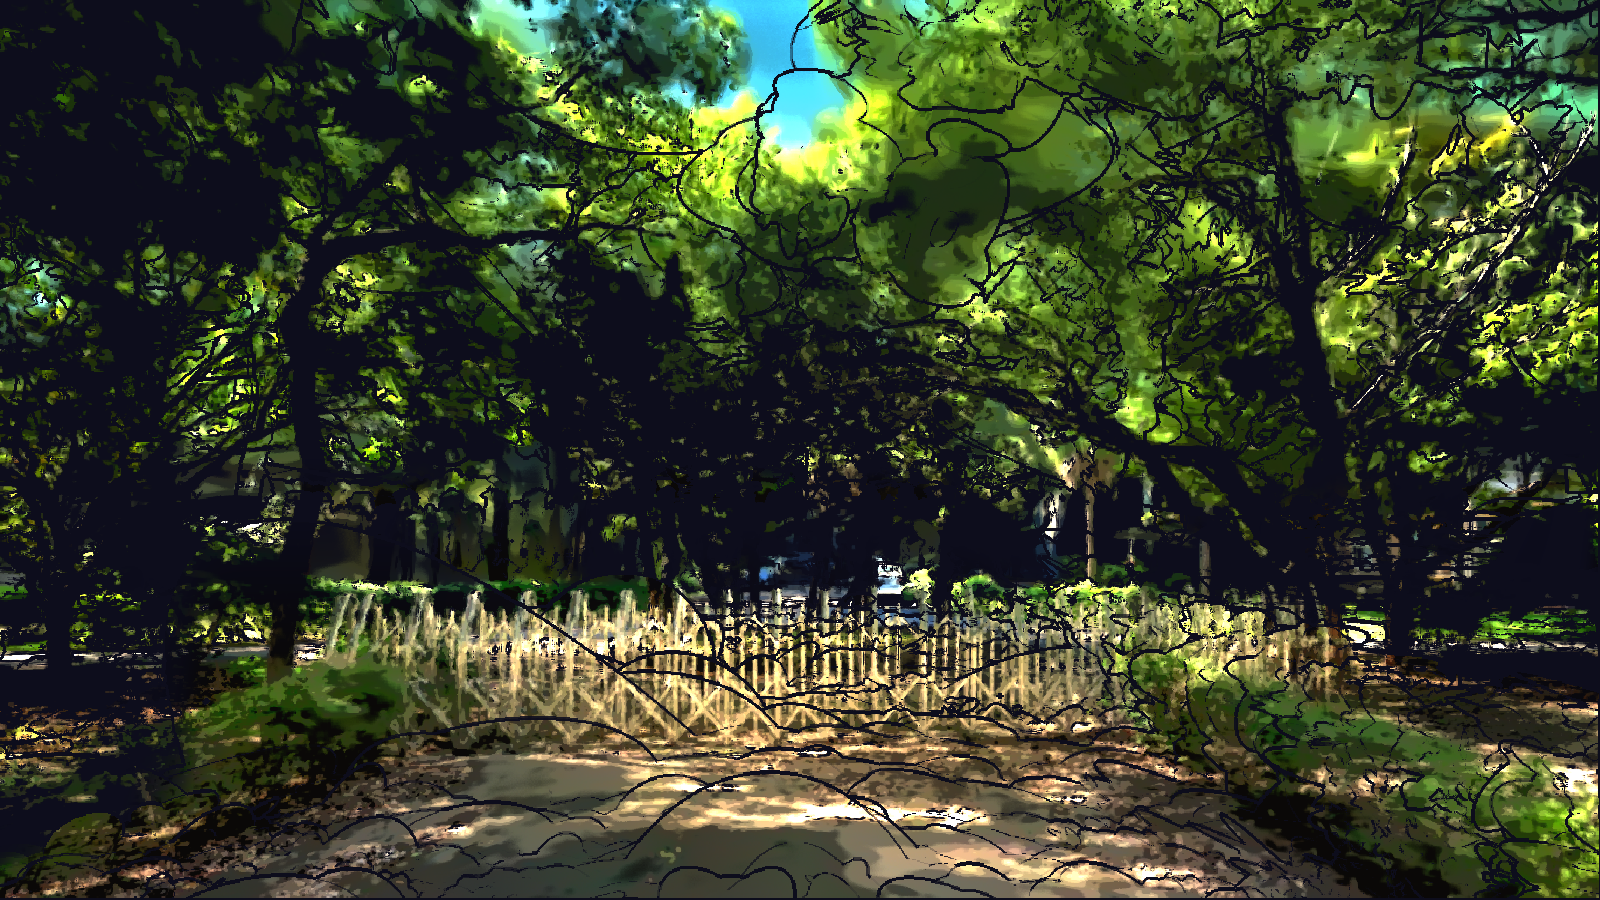
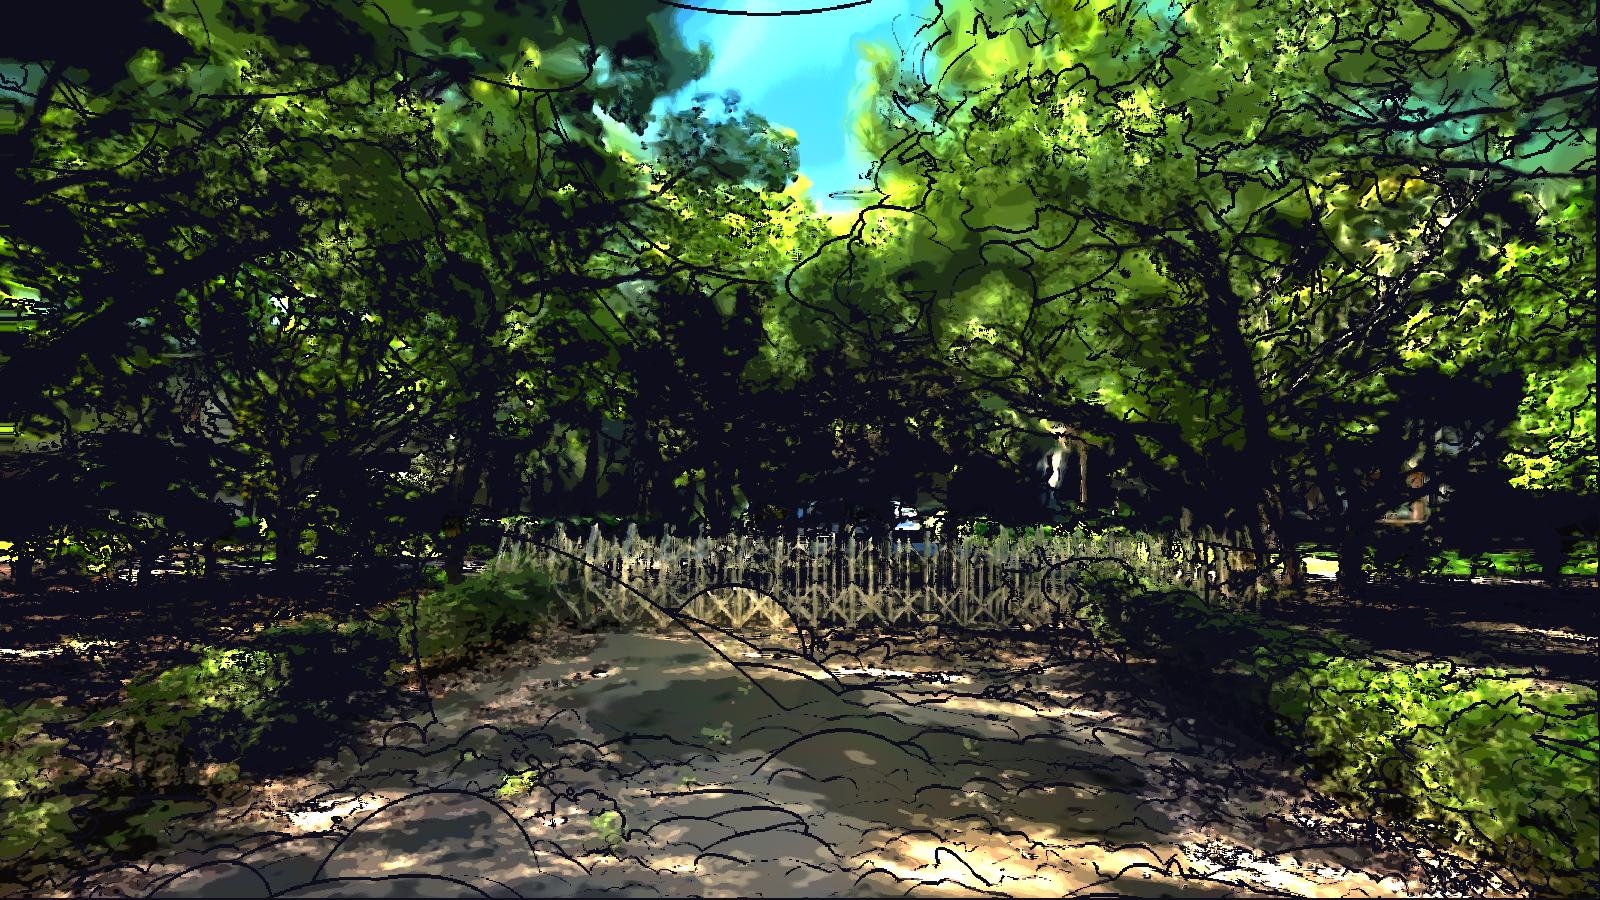
Update final version: sky, time of day, sun handle

diff --git a/20261006_NYCU ZhuMing Hall/scripts/outline_3dgs_pp.py b/20261006_NYCU ZhuMing Hall/scripts/outline_3dgs_pp.py
@@ -87,6 +87,12 @@ ROAD_TINT = (1.0, 0.94, 0.80)
 SUN = True
 SUN_LABEL = "SunHandle"
 SUN_NOON_PITCH = -78.0   # set once, on the first run: the light points almost straight down
+SUN_BASE_INTENSITY = 3.0 # the light's Intensity that counts as normal; fixed, so the brightness slider stays meaningful
+SUN_RESET_INTENSITY = True   # put Intensity back to SUN_BASE_INTENSITY when this runs; False keeps the slider's value
+SKY_KEEP = 0.7           # how much the sky keeps its own colour instead of the grade, so it doesn't blow out
+DAY_RANGE = 0.6          # sun height (sine of elevation) where full daylight is reached; below it the scene dims
+DAY_DIM = 0.3            # scene brightness at sunrise and sunset
+SUNSET_WARMTH = 0.8      # how orange the scene turns when the sun is low
 SUN_POOL = 0.6           # how much brighter open ground gets; same soft multiply as the road light, kept below it
 SUN_SOFTNESS = 0.06      # blur of the pool edges, per cm of canopy height (bigger = softer)
 CANOPY_ABSORB = 2.5      # how much sun the canopy blocks (bigger = smaller, sharper pools)
@@ -239,6 +245,9 @@ if ({road})
 float boost = max(road * {rb_}, sunPool * {pl}) * sunGain;
 float3 lightTint = {rt} * sunTint;
 c.rgb = c.rgb * (1.0 + boost) * lerp(float3(1.0, 1.0, 1.0), lightTint, saturate(boost)) + lightTint * 0.06 * boost;
+// the sky skips most of the grade, or contrast and highlight boosts wash it to white
+float skyM = smoothstep(2500.0, 6000.0, d) * smoothstep(-0.03, 0.03, skyOrig.b - skyOrig.g);
+c.rgb = lerp(c.rgb, skyOrig, skyM * {sk});
 LineColor = {lc};
 c.rgb = lerp(c.rgb, LineColor, smoothstep({dhi}, {dlo}, lum) * (1.0 - saturate(max(road, sunPool * sunGain))));
 edge *= {ls};
@@ -342,15 +351,18 @@ SWAY_CODE = """if ({on})
 SUN_CODE = """float sunPool = 0.0;
 float sunGain = 1.0;
 float3 sunTint = float3(1.0, 1.0, 1.0);
+float3 skyOrig = c.rgb;
 if ({on})
 {{
     float3 sunD = View.AtmosphereLightDirection[0].xyz;
     float3 sunI = View.AtmosphereLightIlluminanceOnGroundPostTransmittance[0].rgb;
     float sunL = dot(sunI, W);
-    float day = smoothstep(-0.05, 0.25, sunD.z);
+    float day = smoothstep(-0.05, {dr}, sunD.z);
     sunGain = clamp(sunL / {ref}, 0.0, 1.5) * day;
     sunTint = lerp(float3(1.0, 1.0, 1.0), sunI / max(sunL, 0.001), 0.5);
-    c.rgb *= lerp(0.35, 1.0, day);
+    // the whole picture follows the sun: dim and orange when low, full and neutral when high
+    c.rgb *= lerp({dd}, 1.0, day) * lerp(float3(1.0, 1.0, 1.0), float3(1.15, 0.9, 0.62), {wm} * (1.0 - saturate(sunD.z / {dr})));
+    skyOrig = c.rgb;
     float gw = 1.0 - smoothstep(60.0, 220.0, aboveG);
     if (gw > 0.001 && sunD.z > 0.05)
     {{
@@ -391,7 +403,7 @@ RAYS_CODE = """if ({on})
         }}
         acc /= {n};
         float fade = 1.0 - smoothstep(0.6, 1.4, length(sunUV / ScreenMult - 0.5));
-        c.rgb += {rc} * acc * {it} * fade;
+        c.rgb += {rc} * acc * {it} * fade * {rk};
     }}
 }}
 """
@@ -399,7 +411,8 @@ RAYS_CODE = """if ({on})
 
 def build_code():
     rays = RAYS_CODE.format(on=int(RAYS), ln=RAY_LENGTH, n=int(RAY_SAMPLES), sky=RAY_SKY_DEPTH,
-                            dc=RAY_DECAY, rc=f3(RAY_COLOR), it=RAY_INTENSITY)
+                            dc=RAY_DECAY, rc=f3(RAY_COLOR), it=RAY_INTENSITY,
+                            rk="(1.0 - skyM * {})".format(SKY_KEEP) if MONET else "1.0")
     sway = SWAY_CODE.format(on=int(SWAY), rad=LEAF_MASK_RADIUS, amt=SWAY_AMOUNT, n=len(TREE_LIST), crown=CROWN_RADIUS,
                             wx=WIND_DIR[0], wy=WIND_DIR[1], gv=GUST_SPEED, gp=GUST_PERIOD, gs2=GUST_SHARPNESS,
                             tg=TREE_GUST_SPREAD, ts=TREE_SPEED, ox=SPLAT_OFFSET[0], oy=SPLAT_OFFSET[1], mn=SUN_MAP_MIN,
@@ -409,7 +422,7 @@ def build_code():
     ground = GROUND_CODE.format(ox=SPLAT_OFFSET[0], oy=SPLAT_OFFSET[1], oz=SPLAT_OFFSET[2],
                                 gf=", ".join(str(v) for v in GROUND_FIT))
     base = OUTLINE.replace("float2 px =", ground + sway + "float2 px =")
-    sunc = SUN_CODE.format(on=int(SUN), ref=SUN_REF, ox=SPLAT_OFFSET[0], oy=SPLAT_OFFSET[1], b0=SUN_BANDS[0],
+    sunc = SUN_CODE.format(on=int(SUN), ref=SUN_BASE_INTENSITY * 0.8, dr=DAY_RANGE, dd=DAY_DIM, wm=SUNSET_WARMTH, ox=SPLAT_OFFSET[0], oy=SPLAT_OFFSET[1], b0=SUN_BANDS[0],
                            b1=SUN_BANDS[1], b2=SUN_BANDS[2], mn=SUN_MAP_MIN, sp=SUN_MAP_SPAN, ab=CANOPY_ABSORB,
                            sf=SUN_SOFTNESS)
     if not MONET:
@@ -422,7 +435,7 @@ def build_code():
                                lt=f3(LIGHT_TINT), pastel=PASTEL, lc=f3(MONET_LINE_COLOR),
                                dlo=DARK_LO, dhi=DARK_HI, ls=LINE_STRENGTH, hb=HIGHLIGHT_BOOST, br=BRIGHTNESS,
                                road=int(ROAD), ra=f3(ROAD_A), rb=f3(ROAD_B), rw=ROAD_HALF_WIDTH, rs=ROAD_SOFT,
-                               rh=ROAD_HEIGHT, rb_=ROAD_BOOST, rt=f3(ROAD_TINT), pl=SUN_POOL)
+                               rh=ROAD_HEIGHT, rb_=ROAD_BOOST, rt=f3(ROAD_TINT), pl=SUN_POOL, sk=SKY_KEEP)
     # Edges are found on the photo; the paint dabs and grade then go on before the lines are drawn.
     return code.replace("c.rgb = lerp(c.rgb, LineColor, edge);", paint + sunc + grade + "c.rgb = lerp(c.rgb, LineColor, edge);").replace(
         "return c;", rays + "return c;")
@@ -489,7 +502,12 @@ if sun.get_actor_label() != SUN_LABEL:
     sun.set_actor_label(SUN_LABEL)
     unreal.EditorLoadingAndSavingUtils.save_dirty_packages(True, True)
     log("sun handle set to noon")
-SUN_REF = max(sun_comp.get_editor_property("intensity") * 0.8, 0.001)
+# back to normal strength: real sky brightness follows the light's Intensity
+if SUN_RESET_INTENSITY:
+    sun.modify()
+    sun_comp.modify()
+    sun_comp.set_intensity(SUN_BASE_INTENSITY)
+    unreal.EditorLoadingAndSavingUtils.save_dirty_packages(True, True)
 log("sun intensity {} rotation {}".format(sun_comp.get_editor_property("intensity"), sun.get_actor_rotation()))
 
 def data_texture(name, source):

diff --git a/20261006_NYCU ZhuMing Hall/stages/07_sun_handle/apply.py b/20261006_NYCU ZhuMing Hall/stages/07_sun_handle/apply.py
@@ -87,6 +87,12 @@ ROAD_TINT = (1.0, 0.94, 0.80)
 SUN = True
 SUN_LABEL = "SunHandle"
 SUN_NOON_PITCH = -78.0   # set once, on the first run: the light points almost straight down
+SUN_BASE_INTENSITY = 3.0 # the light's Intensity that counts as normal; fixed, so the brightness slider stays meaningful
+SUN_RESET_INTENSITY = True   # put Intensity back to SUN_BASE_INTENSITY when this runs; False keeps the slider's value
+SKY_KEEP = 0.7           # how much the sky keeps its own colour instead of the grade, so it doesn't blow out
+DAY_RANGE = 0.6          # sun height (sine of elevation) where full daylight is reached; below it the scene dims
+DAY_DIM = 0.3            # scene brightness at sunrise and sunset
+SUNSET_WARMTH = 0.8      # how orange the scene turns when the sun is low
 SUN_POOL = 0.6           # how much brighter open ground gets; same soft multiply as the road light, kept below it
 SUN_SOFTNESS = 0.06      # blur of the pool edges, per cm of canopy height (bigger = softer)
 CANOPY_ABSORB = 2.5      # how much sun the canopy blocks (bigger = smaller, sharper pools)
@@ -239,6 +245,9 @@ if ({road})
 float boost = max(road * {rb_}, sunPool * {pl}) * sunGain;
 float3 lightTint = {rt} * sunTint;
 c.rgb = c.rgb * (1.0 + boost) * lerp(float3(1.0, 1.0, 1.0), lightTint, saturate(boost)) + lightTint * 0.06 * boost;
+// the sky skips most of the grade, or contrast and highlight boosts wash it to white
+float skyM = smoothstep(2500.0, 6000.0, d) * smoothstep(-0.03, 0.03, skyOrig.b - skyOrig.g);
+c.rgb = lerp(c.rgb, skyOrig, skyM * {sk});
 LineColor = {lc};
 c.rgb = lerp(c.rgb, LineColor, smoothstep({dhi}, {dlo}, lum) * (1.0 - saturate(max(road, sunPool * sunGain))));
 edge *= {ls};
@@ -342,15 +351,18 @@ SWAY_CODE = """if ({on})
 SUN_CODE = """float sunPool = 0.0;
 float sunGain = 1.0;
 float3 sunTint = float3(1.0, 1.0, 1.0);
+float3 skyOrig = c.rgb;
 if ({on})
 {{
     float3 sunD = View.AtmosphereLightDirection[0].xyz;
     float3 sunI = View.AtmosphereLightIlluminanceOnGroundPostTransmittance[0].rgb;
     float sunL = dot(sunI, W);
-    float day = smoothstep(-0.05, 0.25, sunD.z);
+    float day = smoothstep(-0.05, {dr}, sunD.z);
     sunGain = clamp(sunL / {ref}, 0.0, 1.5) * day;
     sunTint = lerp(float3(1.0, 1.0, 1.0), sunI / max(sunL, 0.001), 0.5);
-    c.rgb *= lerp(0.35, 1.0, day);
+    // the whole picture follows the sun: dim and orange when low, full and neutral when high
+    c.rgb *= lerp({dd}, 1.0, day) * lerp(float3(1.0, 1.0, 1.0), float3(1.15, 0.9, 0.62), {wm} * (1.0 - saturate(sunD.z / {dr})));
+    skyOrig = c.rgb;
     float gw = 1.0 - smoothstep(60.0, 220.0, aboveG);
     if (gw > 0.001 && sunD.z > 0.05)
     {{
@@ -391,7 +403,7 @@ RAYS_CODE = """if ({on})
         }}
         acc /= {n};
         float fade = 1.0 - smoothstep(0.6, 1.4, length(sunUV / ScreenMult - 0.5));
-        c.rgb += {rc} * acc * {it} * fade;
+        c.rgb += {rc} * acc * {it} * fade * {rk};
     }}
 }}
 """
@@ -399,7 +411,8 @@ RAYS_CODE = """if ({on})
 
 def build_code():
     rays = RAYS_CODE.format(on=int(RAYS), ln=RAY_LENGTH, n=int(RAY_SAMPLES), sky=RAY_SKY_DEPTH,
-                            dc=RAY_DECAY, rc=f3(RAY_COLOR), it=RAY_INTENSITY)
+                            dc=RAY_DECAY, rc=f3(RAY_COLOR), it=RAY_INTENSITY,
+                            rk="(1.0 - skyM * {})".format(SKY_KEEP) if MONET else "1.0")
     sway = SWAY_CODE.format(on=int(SWAY), rad=LEAF_MASK_RADIUS, amt=SWAY_AMOUNT, n=len(TREE_LIST), crown=CROWN_RADIUS,
                             wx=WIND_DIR[0], wy=WIND_DIR[1], gv=GUST_SPEED, gp=GUST_PERIOD, gs2=GUST_SHARPNESS,
                             tg=TREE_GUST_SPREAD, ts=TREE_SPEED, ox=SPLAT_OFFSET[0], oy=SPLAT_OFFSET[1], mn=SUN_MAP_MIN,
@@ -409,7 +422,7 @@ def build_code():
     ground = GROUND_CODE.format(ox=SPLAT_OFFSET[0], oy=SPLAT_OFFSET[1], oz=SPLAT_OFFSET[2],
                                 gf=", ".join(str(v) for v in GROUND_FIT))
     base = OUTLINE.replace("float2 px =", ground + sway + "float2 px =")
-    sunc = SUN_CODE.format(on=int(SUN), ref=SUN_REF, ox=SPLAT_OFFSET[0], oy=SPLAT_OFFSET[1], b0=SUN_BANDS[0],
+    sunc = SUN_CODE.format(on=int(SUN), ref=SUN_BASE_INTENSITY * 0.8, dr=DAY_RANGE, dd=DAY_DIM, wm=SUNSET_WARMTH, ox=SPLAT_OFFSET[0], oy=SPLAT_OFFSET[1], b0=SUN_BANDS[0],
                            b1=SUN_BANDS[1], b2=SUN_BANDS[2], mn=SUN_MAP_MIN, sp=SUN_MAP_SPAN, ab=CANOPY_ABSORB,
                            sf=SUN_SOFTNESS)
     if not MONET:
@@ -422,7 +435,7 @@ def build_code():
                                lt=f3(LIGHT_TINT), pastel=PASTEL, lc=f3(MONET_LINE_COLOR),
                                dlo=DARK_LO, dhi=DARK_HI, ls=LINE_STRENGTH, hb=HIGHLIGHT_BOOST, br=BRIGHTNESS,
                                road=int(ROAD), ra=f3(ROAD_A), rb=f3(ROAD_B), rw=ROAD_HALF_WIDTH, rs=ROAD_SOFT,
-                               rh=ROAD_HEIGHT, rb_=ROAD_BOOST, rt=f3(ROAD_TINT), pl=SUN_POOL)
+                               rh=ROAD_HEIGHT, rb_=ROAD_BOOST, rt=f3(ROAD_TINT), pl=SUN_POOL, sk=SKY_KEEP)
     # Edges are found on the photo; the paint dabs and grade then go on before the lines are drawn.
     return code.replace("c.rgb = lerp(c.rgb, LineColor, edge);", paint + sunc + grade + "c.rgb = lerp(c.rgb, LineColor, edge);").replace(
         "return c;", rays + "return c;")
@@ -489,7 +502,12 @@ if sun.get_actor_label() != SUN_LABEL:
     sun.set_actor_label(SUN_LABEL)
     unreal.EditorLoadingAndSavingUtils.save_dirty_packages(True, True)
     log("sun handle set to noon")
-SUN_REF = max(sun_comp.get_editor_property("intensity") * 0.8, 0.001)
+# back to normal strength: real sky brightness follows the light's Intensity
+if SUN_RESET_INTENSITY:
+    sun.modify()
+    sun_comp.modify()
+    sun_comp.set_intensity(SUN_BASE_INTENSITY)
+    unreal.EditorLoadingAndSavingUtils.save_dirty_packages(True, True)
 log("sun intensity {} rotation {}".format(sun_comp.get_editor_property("intensity"), sun.get_actor_rotation()))
 
 def data_texture(name, source):

diff --git a/20261006_NYCU ZhuMing Hall/project_spec/PROJECT.md b/20261006_NYCU ZhuMing Hall/project_spec/PROJECT.md
@@ -16,7 +16,7 @@
 - 引擎：Unreal Engine 5.6
 - 主要關卡：`Lvl_ZhuMingHall`（World Partition）
 - 外掛：`ModelingToolsEditorMode`、`GameplayStateTree`、`OSC`、`NanoGS`、`Water`
-- 效果全部在一個後製材質裡，由 Python 腳本寫入，專案沒有 C++ 或 Blueprint 邏輯
+- 這些效果全部在一個後製材質裡，由 Python 腳本寫入，沒有用到 C++ 或 Blueprint
 
 ## 關卡物件
 
@@ -34,7 +34,7 @@
 | `SM_SkySphere` | StaticMeshActor | [0.0, 0.0, 0.0] |  |
 | `SkyAtmosphere` | SkyAtmosphere | [0.0, 0.0, 1020.0] |  |
 | `SkyLight` | SkyLight | [0.0, 0.0, 690.0] |  |
-| `SunHandle` | DirectionalLight | [256.32, -72.112, 690.0] | Intensity 4.21，可移動，大氣太陽 |
+| `SunHandle` | DirectionalLight | [256.32, -72.112, 690.0] | Intensity 3.00，可移動，大氣太陽 |
 | `VolumetricCloud` | VolumetricCloud | [0.0, 0.0, 820.0] |  |
 | `WorldDataLayers` | WorldDataLayers | [0.0, 0.0, 0.0] | 遊戲中隱藏 |
 | `WorldPartitionMiniMap` | WorldPartitionMiniMap | [0.0, 0.0, 0.0] | 遊戲中隱藏 |
@@ -42,7 +42,7 @@
 
 ## 太陽把手
 
-關卡的 DirectionalLight 叫 `SunHandle`，目前旋轉為 pitch -77.791、yaw -19.188，Intensity 4.21。材質用 `View.AtmosphereLightDirection[0]` 和 `View.AtmosphereLightIlluminanceOnGroundPostTransmittance[0]` 即時讀取。
+關卡的 DirectionalLight 叫 `SunHandle`，目前旋轉為 pitch -74.903、yaw -62.748，Intensity 3.00。材質用 `View.AtmosphereLightDirection[0]` 和 `View.AtmosphereLightIlluminanceOnGroundPostTransmittance[0]` 即時讀取。
 
 編輯器上方選單「太陽把手」由 `Content/Python/init_unreal.py` 載入 `sun_panel.py`，提供時間、方位、亮度、暖色四條滑桿和五個時段。
 
@@ -185,7 +185,7 @@
 | `RAY_COLOR` | `[1.0, 0.9, 0.68]` |  |
 | `RAY_SKY_DEPTH` | `3000.0` | cm; only gaps farther than this (sky) let light through |
 
-其他參數見 `parameters.json`：`GROUND_HEIGHT`、`ROAD_A`、`ROAD_B`、`TREE_LIST`
+其他參數見 `parameters.json`：`GROUND_HEIGHT`、`SUN_BASE_INTENSITY`、`SUN_RESET_INTENSITY`、`SKY_KEEP`、`DAY_RANGE`、`DAY_DIM`、`SUNSET_WARMTH`、`ROAD_A`、`ROAD_B`、`TREE_LIST`
 
 ## 資產
 

diff --git a/README.md b/README.md
@@ -4,7 +4,7 @@
 
 ![七個階段的變化](20261006_NYCU%20ZhuMing%20Hall/demo/seven_stages.gif)
 
-**[⬇ 下載完整專案（約 1 GB）](https://github.com/anniebelly/Unreal-Engine-Projects-at-NYCU-IAA/releases/download/v1.0-zhuming-hall/Test_1006_public_v2_20261104.zip)** · **[看七個階段的完整過程](20261006_NYCU%20ZhuMing%20Hall/ITERATIONS.md)**
+**[⬇ 下載完整專案（約 1 GB）](https://github.com/anniebelly/Unreal-Engine-Projects-at-NYCU-IAA/releases/download/v1.0-zhuming-hall/Test_1006_public_v3_20261104.zip)** · **[看七個階段的完整過程](20261006_NYCU%20ZhuMing%20Hall/ITERATIONS.md)**
 
 ## Demo
 

diff --git a/20261006_NYCU ZhuMing Hall/stages/07_sun_handle/README.md b/20261006_NYCU ZhuMing Hall/stages/07_sun_handle/README.md
@@ -17,6 +17,12 @@ SunHandle 即時驅動太陽方向、強度和顏色，並有滑桿面板（Cont
 | `LOW_SHRUB_SWING` | （新增） | 0.75 |
 | `SUN` | （新增） | True |
 | `SUN_NOON_PITCH` | （新增） | -78.0 |
+| `SUN_BASE_INTENSITY` | （新增） | 3.0 |
+| `SUN_RESET_INTENSITY` | （新增） | True |
+| `SKY_KEEP` | （新增） | 0.7 |
+| `DAY_RANGE` | （新增） | 0.6 |
+| `DAY_DIM` | （新增） | 0.3 |
+| `SUNSET_WARMTH` | （新增） | 0.8 |
 | `SUN_POOL` | （新增） | 0.6 |
 | `SUN_SOFTNESS` | （新增） | 0.06 |
 | `CANOPY_ABSORB` | （新增） | 2.5 |
